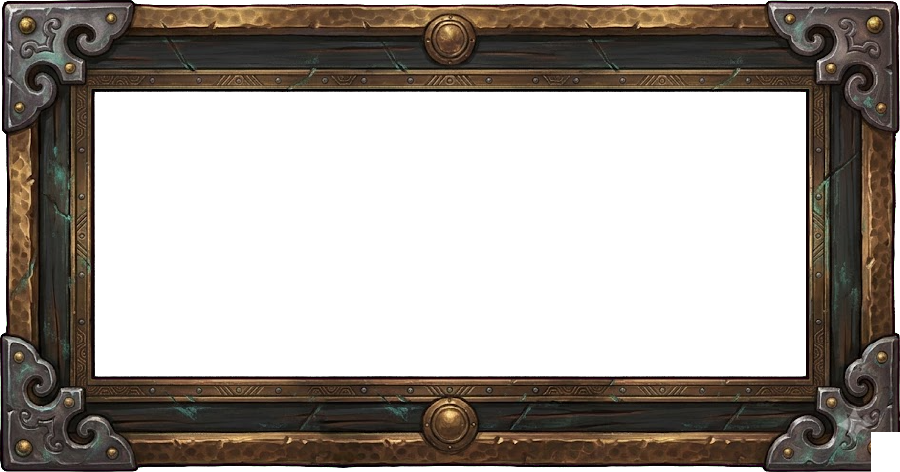
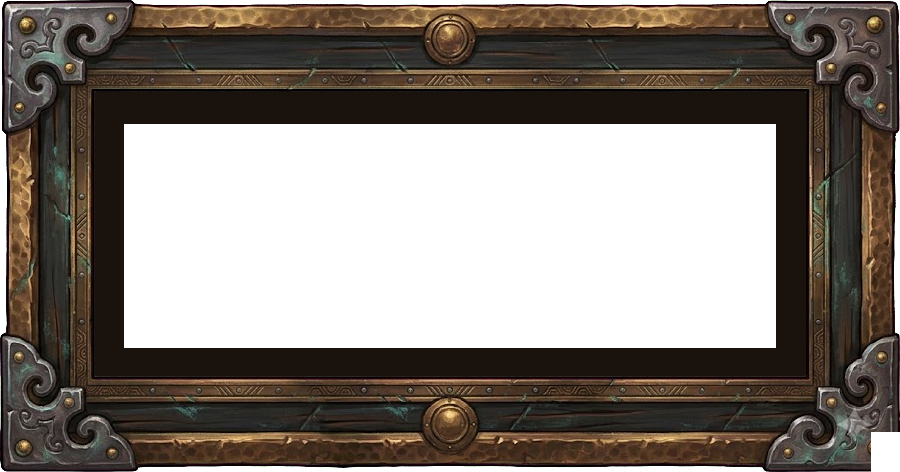
테두리와 배경 사이 틈 — 테 그림(ui/frame-panel.png)의 안쪽 투명 띠(자르는 폭 118 과 실제 테 폭 ~90 사이)를 짙은 옻칠 빛으로 메움: 지도 아래 띠·카드 상자·싸움 카드·깃발 카드·싸움 위 카드 모두 한 번에 · 싸움 막대 결이 적 쪽만 거꾸로 흐르던 것을 양쪽 다 오른쪽으로 · 개척단 띠 설명을 「보낼 곳을 선택한다」 한 줄로
Claude-Session: https://claude.ai/code/session_01PBv6Hon8gSa94pJHbcgCQm

Changed region(s): [[0.0933, 0.178, 0.9022, 0.8008]]

diff --git a/src/ui/realm/battlefield.ts b/src/ui/realm/battlefield.ts
@@ -684,7 +684,7 @@ export const WAR_CSS = `
 .ap .wtop { position: sticky; top: 0; z-index: 3; margin: 0 -14px; padding: calc(16px + env(safe-area-inset-top)) 30px 22px;
   background: linear-gradient(#0d0f1388, #0d0f1311 35%, #0d0f1344 70%, #0d0f13f2), var(--wtbg) center 55% / cover no-repeat; background-origin: border-box;
   filter: drop-shadow(0 6px 14px #000a); }
-.ap .wtop::after { content: ''; position: absolute; inset: 0; border: 22px solid transparent; border-image: url(__ART__ui/frame-panel.png) 118 / 22px stretch; pointer-events: none; z-index: 2; }
+.ap .wtop::after { content: ''; position: absolute; inset: 0; border: 22px solid transparent; border-image: url(__ART__ui/frame-panel.png?v=3) 118 / 22px stretch; pointer-events: none; z-index: 2; }
 .ap .wtop.def { background: linear-gradient(#0d0f1388, #0d0f1311 35%, #0d0f1344 70%, #0d0f13f2), var(--wtbg) center 55% / cover no-repeat; }
 @media (max-width: 520px) { .ap .wtop { padding: calc(12px + env(safe-area-inset-top)) 22px 18px; } .ap .wtop::after { border-width: 16px; border-image-width: 16px; } }
 /* 장수 초상 — 쇠 귀퉁이 청동 테 안에 얼굴 (테 그림이 얼굴 위에 얹힌다) */
@@ -724,7 +724,7 @@ export const WAR_CSS = `
 .ap .wbar i { position: relative; display: block; height: 100%; border-radius: 6px; overflow: hidden; }
 .ap .wbar i::before { content: ''; position: absolute; inset: 0; background: repeating-linear-gradient(115deg, #ffffff00 0 9px, #ffffff2a 9px 15px); background-size: 34px 100%; animation: wbarflow 1.1s linear infinite; }
 .ap .wbar i::after { content: ''; position: absolute; top: 0; bottom: 0; left: -45%; width: 45%; background: linear-gradient(90deg, #fff0, #ffffffb0, #fff0); animation: wbarshine 3s ease-in-out infinite; }
-.ap .ws.foe .wbar i::after { animation-delay: 1.4s; } .ap .ws.foe .wbar i::before { animation-direction: reverse; }
+.ap .ws.foe .wbar i::after { animation-delay: 1.4s; }
 @keyframes wbarflow { to { background-position: 34px 0; } }
 @keyframes wbarshine { 0% { left: -45%; } 55%, 100% { left: 110%; } }
 @media (prefers-reduced-motion: reduce) { .ap .wbar i::before, .ap .wbar i::after, .ap .ws.us .wpf > i, .ap .wbg, .ap .wember { animation: none !important; } }
@@ -740,7 +740,7 @@ export const WAR_CSS = `
 .ap .wlog { display: flex; flex-direction: column; gap: 8px; margin: 8px 0; }
 .ap .wrd, .ap .wnext, .ap .wend { scroll-margin-top: var(--wtoph, 170px); }
 /* 합 기록 · 다음 합 · 결과 · 들머리 — 같은 청동 테 (형 10-23: "밋밋한 CSS UI 찾아서 개선") */
-.ap.ap :is(.wrd, .wnext, .wend, .wintro) { border: 11px solid transparent; border-image: url(__ART__ui/frame-panel.png) 118 / 11px stretch; border-radius: 0; background-clip: padding-box; }
+.ap.ap :is(.wrd, .wnext, .wend, .wintro) { border: 11px solid transparent; border-image: url(__ART__ui/frame-panel.png?v=3) 118 / 11px stretch; border-radius: 0; background-clip: padding-box; }
 .ap.ap .wrd.crit { filter: drop-shadow(0 0 5px #d9b36a99); box-shadow: none; }
 .ap .wrd { padding: 8px 10px; border-radius: 12px; background: #201a16e6; border: 1px solid #4d3b26; }
 .ap .wrd.crit { border-color: #d9b36a; box-shadow: 0 0 0 1px #d9b36a55 inset; }
@@ -894,8 +894,8 @@ export const WAR_CSS = `
   background: #2a1f16; color: var(--ink); font: inherit; text-align: left; cursor: pointer; position: relative; }
 .ap .wcmd.on { border-color: var(--gold); background: #3a3222; box-shadow: 0 0 0 2px #d9b36a66; }
 /* 깃발 카드 — 같은 청동 테 (가늘게) · 고르면 금빛이 번진다 */
-.ap .wcmd { border: 12px solid transparent; border-image: url(__ART__ui/frame-panel.png) 118 / 12px stretch; background: #1d1610 padding-box; border-radius: 0; }
-.ap .wcmd.on { border-image: url(__ART__ui/frame-panel.png) 118 / 12px stretch; background: #3a2e1c padding-box; box-shadow: none; filter: drop-shadow(0 0 6px #ffd27aaa); animation: wcmdland .18s cubic-bezier(.3, 1.6, .5, 1); }
+.ap .wcmd { border: 12px solid transparent; border-image: url(__ART__ui/frame-panel.png?v=3) 118 / 12px stretch; background: #1d1610 padding-box; border-radius: 0; }
+.ap .wcmd.on { border-image: url(__ART__ui/frame-panel.png?v=3) 118 / 12px stretch; background: #3a2e1c padding-box; box-shadow: none; filter: drop-shadow(0 0 6px #ffd27aaa); animation: wcmdland .18s cubic-bezier(.3, 1.6, .5, 1); }
 .ap .wcmd { transition: transform .12s ease-out, filter .12s; } .ap .wcmd:hover:not(.on) { transform: translateY(-4px); filter: drop-shadow(0 8px 8px #000a); } .ap .wcmd:active { transform: translateY(1px) scale(.97); transition-duration: .06s; }
 @keyframes wcmdland { 0% { transform: scale(1.08); } 100% { transform: scale(1); } }
 /* 깃발 카드 — 왼쪽에 깃발 한 폭, 고르면 깃발이 들려 나부낀다 */

diff --git a/src/ui/realm/appstyle.ts b/src/ui/realm/appstyle.ts
@@ -412,7 +412,7 @@ html, body { margin: 0; height: 100%; overflow: hidden; background: #17110c; ove
 .ap .fall > div > span { display: block; font-size: 13.5px; color: var(--mute); margin-top: 3px; }
 /* 지도에서 고른 말 — 아래 띠 · 합치기 */
 .ap .selbar { position: absolute; left: 64px; right: 14px; bottom: calc(var(--tabh) + 70px); z-index: 7; display: none; align-items: center; gap: 8px; flex-wrap: wrap;
-  padding: 6px 8px; border: 12px solid transparent; border-image: url(__ART__ui/frame-panel.png) 118 / 12px stretch; background: #1f1710f2 padding-box; filter: drop-shadow(0 6px 14px #000a); }
+  padding: 6px 8px; border: 12px solid transparent; border-image: url(__ART__ui/frame-panel.png?v=3) 118 / 12px stretch; background: #1f1710f2 padding-box; filter: drop-shadow(0 6px 14px #000a); }
 .ap .selbar .sbt b { display: flex; align-items: center; gap: 6px; }
 .ap.sel-open .selbar { display: flex; } .ap.sheet-open .selbar { display: none; }
 .ap .selbar .sbf { display: flex; } .ap .selbar .sbface { width: 38px; height: 38px; border-radius: 50%; object-fit: cover; border: 2px solid #ffd27a; margin-right: -8px; background: #3a2c1e; display: block; }
@@ -539,7 +539,7 @@ html, body { margin: 0; height: 100%; overflow: hidden; background: #17110c; ove
 .ap .nudge .ndf { width: 30px; height: 30px; border-radius: 50%; object-fit: cover; }
 /* 카드 상자 — 청동·옻칠 나무 테 (ui/frame-panel.png · 싸움판 위 카드와 한 벌). 겹 클래스로 뒤에 오는 판별 CSS 보다 앞선다 */
 .ap.ap :is(.acard, .ncard, .fcard, .hrow, .nacts, .askc, .trade, .splitp, .paths, .warc, .fall, .acct, .exp, .wed, .scouthd, .hands) {
-  border: 11px solid transparent; border-image: url(__ART__ui/frame-panel.png) 118 / 11px stretch; border-radius: 0; background-clip: padding-box; }
+  border: 11px solid transparent; border-image: url(__ART__ui/frame-panel.png?v=3) 118 / 11px stretch; border-radius: 0; background-clip: padding-box; }
 .ap.ap :is(.acard.fresh) { box-shadow: none; filter: drop-shadow(0 0 6px #7aa83aaa); }
 .ap.ap .hrow.ruler { filter: drop-shadow(0 0 5px #c9a45a88); }
 @media (max-width: 420px) { .ap.ap :is(.acard, .ncard, .fcard, .hrow, .nacts, .askc, .trade, .splitp, .paths, .warc, .fall, .acct, .exp, .wed, .scouthd, .hands) { border-width: 9px; border-image-width: 9px; } }

diff --git a/src/ui/realm/app.ts b/src/ui/realm/app.ts
@@ -967,7 +967,7 @@ export function mountRealmApp(root: HTMLElement, host: AppHost): { show(r: Realm
     let h = `<div class="sbf">${icon('unit-porters', 'sbface ppface')}</div><div class="sbt"><b>${esc(r.nodes[p.home]?.name ?? '')} 개척단 · 백성 ${p.hh}가구</b>`
     if (was != null) h += `<span>${esc(josa(r.nodes[was.to]?.name ?? '', '으로', '로'))} 가는 중 · ${esc(arriveWhen(realm!.season, was.left))}</span>`
     else if (p.march !== null) h += `<span>→ ${esc(r.nodes[p.march.to]?.name ?? '')} · ${foundable(r, me(), p.march.to) ? '닿으면 새 마을' : '지나간다'} · ${esc(arriveWhen(realm!.season, p.march.left))}</span>`
-    else h += `<span>${partyTargets(r, p.id).length > 0 ? '빈땅에 닿으면 마을이 선다 · 우리 고을에서는 자리 잡을 수 있다' : '지금 갈 수 있는 길이 없다'}</span>`
+    else h += `<span>${partyTargets(r, p.id).length > 0 ? '보낼 곳을 선택한다' : '지금 갈 수 있는 길이 없다'}</span>`
     h += `</div>`
     if (joinHere(p.at).some((x) => x.id === p.id)) h += `<button class="btn pri home sm" data-act="ptjoin" data-army="${p.id}">여기 자리 잡기</button>`
     if (formOf(p.id) !== undefined) h += `<button class="btn ghost sm" data-act="party-undo" data-node="${p.home}">꾸리기 거두기</button>`
